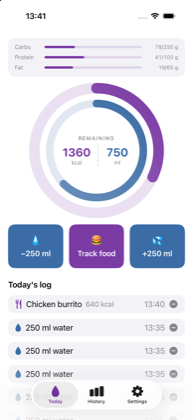
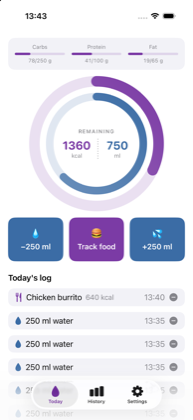
Lay the macro panel out as three columns
Carbs, protein and fat now sit side by side — name, bar, figure stacked in
each column — instead of three full-width rows. Columns take equal widths so
the bars stay comparable regardless of label or figure length.

diff --git a/HydroHomie/Views/MacroPanel.swift b/HydroHomie/Views/MacroPanel.swift
@@ -4,8 +4,8 @@
 
 import SwiftUI
 
-/// Compact macro readout above the rings: one row per macro, each a label, a
-/// horizontal bar and a consumed/goal figure. Shares the buttons' corner radius so
+/// Compact macro readout above the rings: three columns side by side, each a name,
+/// a horizontal bar and a consumed/goal figure. Shares the buttons' corner radius so
 /// the two blocks read as a set.
 struct MacroPanel: View {
     var totals: MacroTotals
@@ -14,10 +14,10 @@ struct MacroPanel: View {
     var fatGoal: Double
 
     var body: some View {
-        VStack(spacing: 7) {
-            row("Carbs", value: totals.carbs, goal: carbsGoal)
-            row("Protein", value: totals.protein, goal: proteinGoal)
-            row("Fat", value: totals.fat, goal: fatGoal)
+        HStack(alignment: .top, spacing: 14) {
+            column("Carbs", value: totals.carbs, goal: carbsGoal)
+            column("Protein", value: totals.protein, goal: proteinGoal)
+            column("Fat", value: totals.fat, goal: fatGoal)
         }
         .padding(.vertical, 12)
         .padding(.horizontal, 14)
@@ -25,12 +25,11 @@ struct MacroPanel: View {
         .background(Color(.secondarySystemBackground), in: .rect(cornerRadius: 14))
     }
 
-    private func row(_ name: String, value: Double, goal: Double) -> some View {
-        HStack(spacing: 10) {
+    private func column(_ name: String, value: Double, goal: Double) -> some View {
+        VStack(spacing: 5) {
             Text(name)
                 .font(.caption)
                 .foregroundStyle(.secondary)
-                .frame(width: 52, alignment: .leading)
 
             bar(progress: HydrationStore.progress(consumed: value, goal: goal))
 
@@ -38,8 +37,11 @@ struct MacroPanel: View {
                 .font(.caption2)
                 .monospacedDigit()
                 .foregroundStyle(.secondary)
-                .frame(width: 66, alignment: .trailing)
         }
+        // Equal widths regardless of how long the name or the figures are.
+        .frame(maxWidth: .infinity)
+        .lineLimit(1)
+        .minimumScaleFactor(0.7)
     }
 
     private func bar(progress: Double) -> some View {
@@ -63,7 +65,7 @@ struct MacroPanel: View {
             carbsGoal: 250, proteinGoal: 100, fatGoal: 65
         )
         MacroPanel(
-            totals: MacroTotals(carbs: 180, protein: 74, fat: 52),
+            totals: MacroTotals(carbs: 180, protein: 74, fat: 65),
             carbsGoal: 250, proteinGoal: 100, fatGoal: 65
         )
     }
